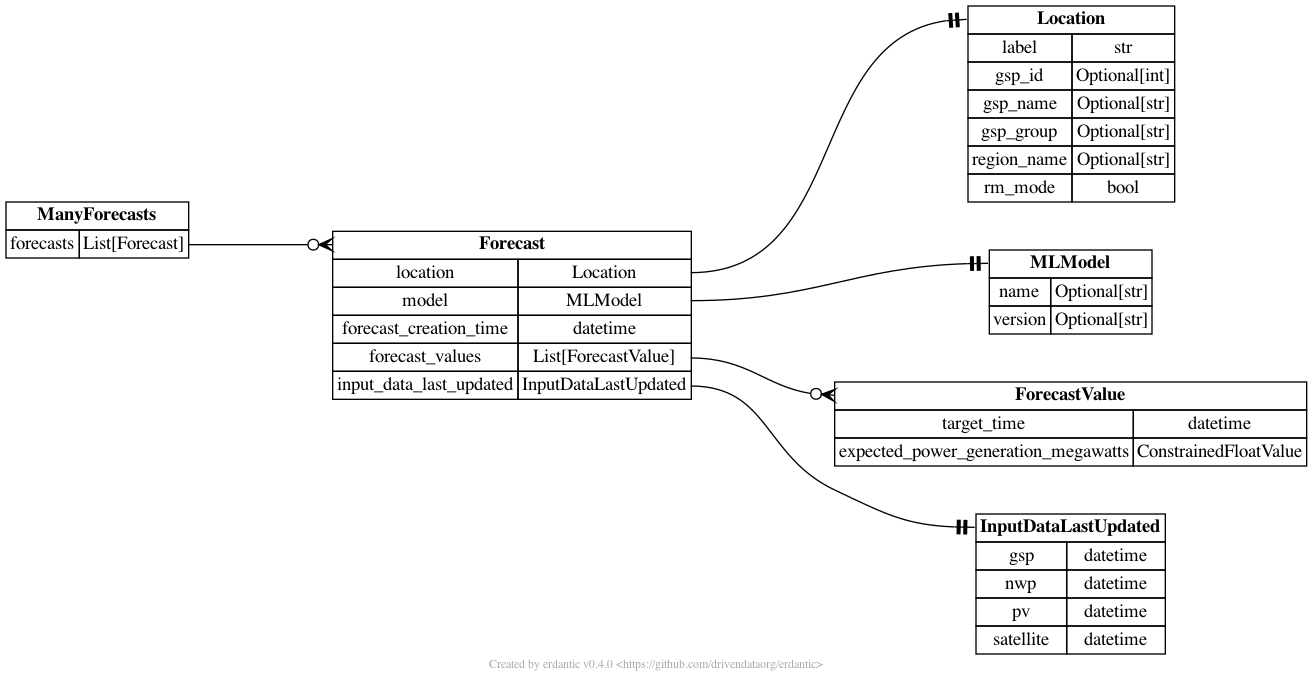
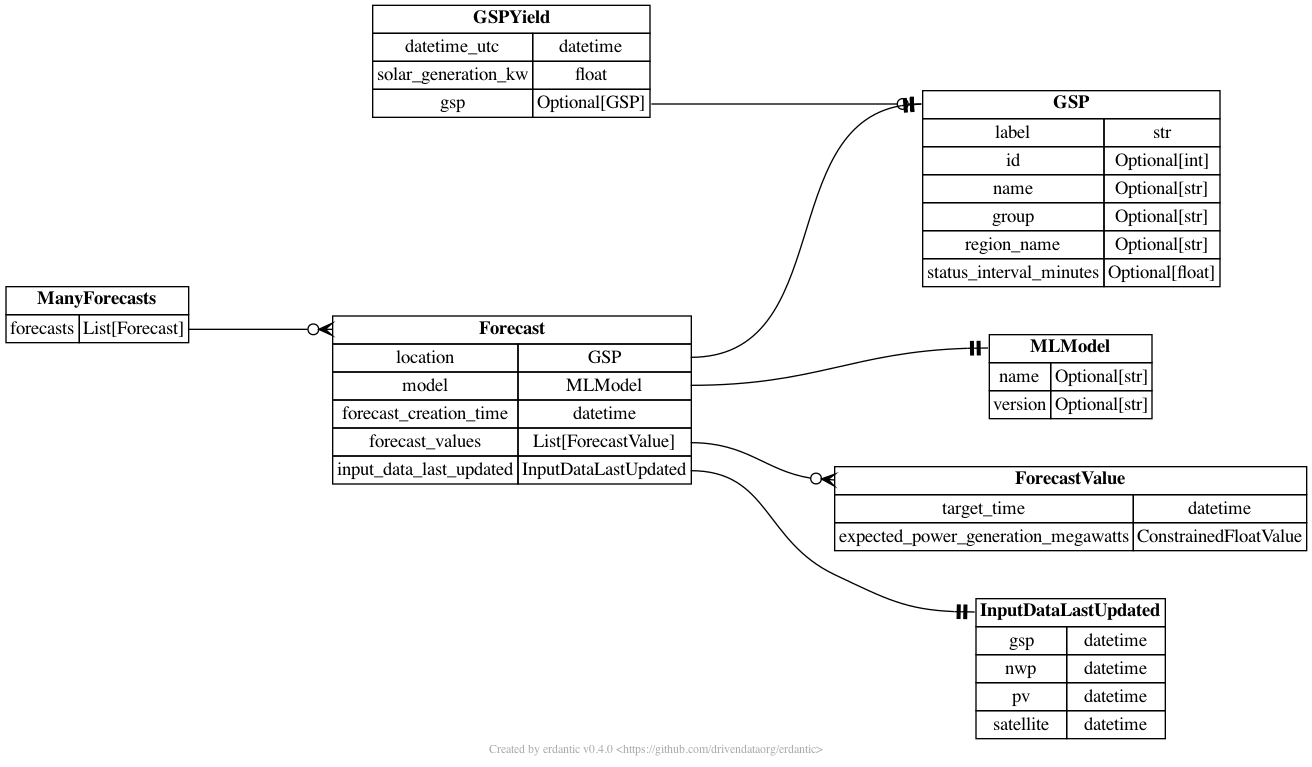
upgrade model

diff --git a/nowcasting_datamodel/models/gsp.py b/nowcasting_datamodel/models/gsp.py
@@ -97,7 +97,7 @@ class GSPYield(EnhancedBaseModel):
 
     gsp: Optional[GSP] = Field(
         None,
-        description="The GSP asscioated with this model",
+        description="The GSP associated with this model",
     )
 
     @validator("solar_generation_kw")
@@ -120,7 +120,7 @@ class GSPYield(EnhancedBaseModel):
 # This means we can just load the gsp and know the last gsp yield value.
 # Helpful advice on
 # https://groups.google.com/g/sqlalchemy/c/Vw1iBXSLibI
-GSPSQL.last_pv_yield = relationship(
+GSPSQL.last_gsp_yield = relationship(
     GSPYieldSQL,
     primaryjoin=and_(
         GSPSQL.pk == GSPYieldSQL.gsp_pk,

diff --git a/scripts/model_diagram.py b/scripts/model_diagram.py
@@ -11,8 +11,9 @@ Date: 2022-01-19
 import erdantic as erd
 
 from nowcasting_datamodel.models import ManyForecasts
+from nowcasting_datamodel.models import GSPYield
 
-diagram = erd.create(ManyForecasts)
+diagram = erd.create(ManyForecasts,GSPYield)
 diagram.draw("diagram.png")
 
 from nowcasting_datamodel.models import PVYield

diff --git a/nowcasting_datamodel/models/pv.py b/nowcasting_datamodel/models/pv.py
@@ -108,7 +108,7 @@ class PVYield(EnhancedBaseModel):
 
     pv_system: Optional[PVSystem] = Field(
         None,
-        description="The PV system asscioated with this model",
+        description="The PV system associated with this model",
     )
 
     @validator("solar_generation_kw")
